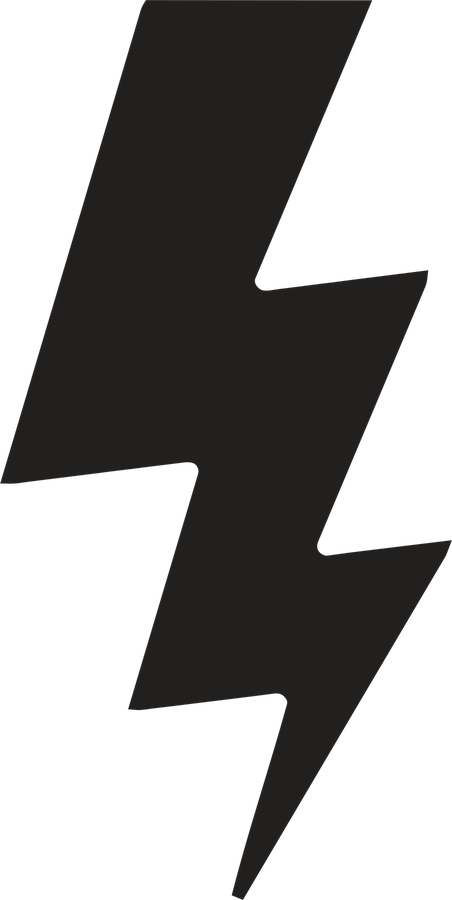
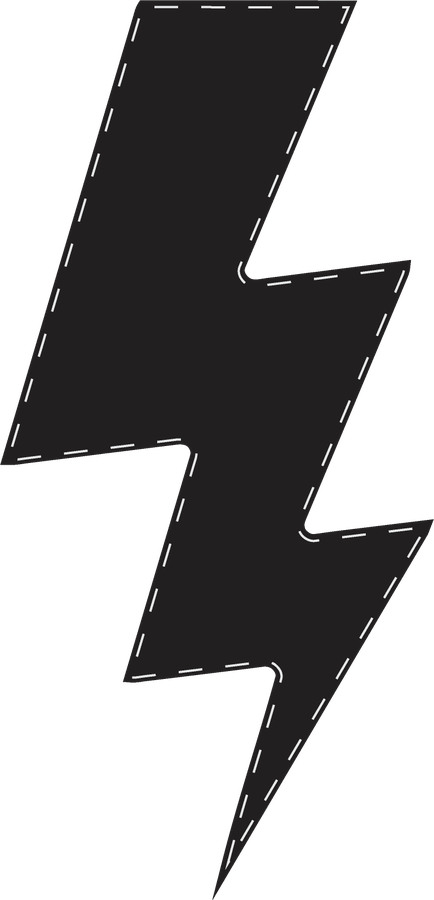
White theme: resize patches, drop shadows except wreath/star-wing, remove all lockup brackets, stitched lightning
- Bigger: NSW lockup, STAR WING. Smaller: CHAIN, LIGHTNING, STAR.
  Padding-only adjustments per patch id, white theme scoped.
- Removed the ink-outline drop-shadow from every patch except STAR
  WREATH (white-ink, needs it to read on white) and now also STAR WING
  (white edge detail, same treatment) -- both heavily reduced vs. the
  original outline weight, not the full double-shadow used elsewhere.
- Swapped in the new stitched-border lightning art ("light.png" in
  the new patches folder) so it matches the other patches' embroidered
  look.
- Removed both the corner brackets and the center tick divider from
  the Nike/JD lockup, hero and mini versions alike -- white theme only,
  markup untouched (just display:none) so it's a one-line revert if we
  go back to it.
- Noir theme intentionally untouched throughout (white is the theme
  going forward).

diff --git a/customer/templates/customer/pickup_join_nike_studio_fleece.html b/customer/templates/customer/pickup_join_nike_studio_fleece.html
@@ -52,6 +52,9 @@
     .tick .top { top: -20px; }
     .tick .bottom { bottom: -20px; }
     .hero-hint { color: var(--heading); font-size: 14px; line-height: 1.5; max-width: 300px; margin: 0 auto; }
+    /* White-theme-only, reversible: corner brackets hidden but markup kept
+       in case we go back to them. */
+    html.theme-white .bracket, html.theme-white .tick { display: none; }
 
     /* Sections */
     .section { padding: 36px 20px 40px; }
@@ -118,6 +121,17 @@
     .patch-card img { width: 100%; aspect-ratio: 1; object-fit: contain; filter: drop-shadow(0 0 2px var(--ink-outline)) drop-shadow(0 0 2px var(--ink-outline)); transition: filter .15s; }
     .patch-card.selected { border-color: transparent; }
     .patch-card.maxed:not(.selected) { opacity: 0.35; }
+    /* White-theme-only sizing/shadow tuning per patch (ink is dark enough
+       on white to not need the outline at all, except the wreath which is
+       white ink -- keeps a much lighter version of it). */
+    html.theme-white .patch-card img { filter: none; }
+    html.theme-white .patch-card[data-id="p4"] img,
+    html.theme-white .patch-card[data-id="p7"] img { filter: drop-shadow(0 0 1px rgba(0,0,0,0.25)); }
+    html.theme-white .patch-card[data-id="p3"] { padding: 0; }
+    html.theme-white .patch-card[data-id="p7"] { padding: 0; }
+    html.theme-white .patch-card[data-id="p6"] { padding: 12px; }
+    html.theme-white .patch-card[data-id="p2"] { padding: 14px; }
+    html.theme-white .patch-card[data-id="p8"] { padding: 14px; }
 
     /* Placement lists — one full-width row per selected patch/design, with
        its own set of placement pills. Lives below the grid rather than

diff --git a/customer/templates/customer/pickup_confirmation_nike_studio_fleece.html b/customer/templates/customer/pickup_confirmation_nike_studio_fleece.html
@@ -73,6 +73,9 @@
     .waiting-accent .tick-mini span { background: var(--accent-a); }
     .ready-accent .bracket-mini { border-color: var(--accent-b); }
     .ready-accent .tick-mini span { background: var(--accent-b); }
+    /* White-theme-only, reversible: corner brackets hidden but markup kept
+       in case we go back to them. */
+    html.theme-white .bracket-mini, html.theme-white .tick-mini { display: none; }
   </style>
 </head>
 <body>
